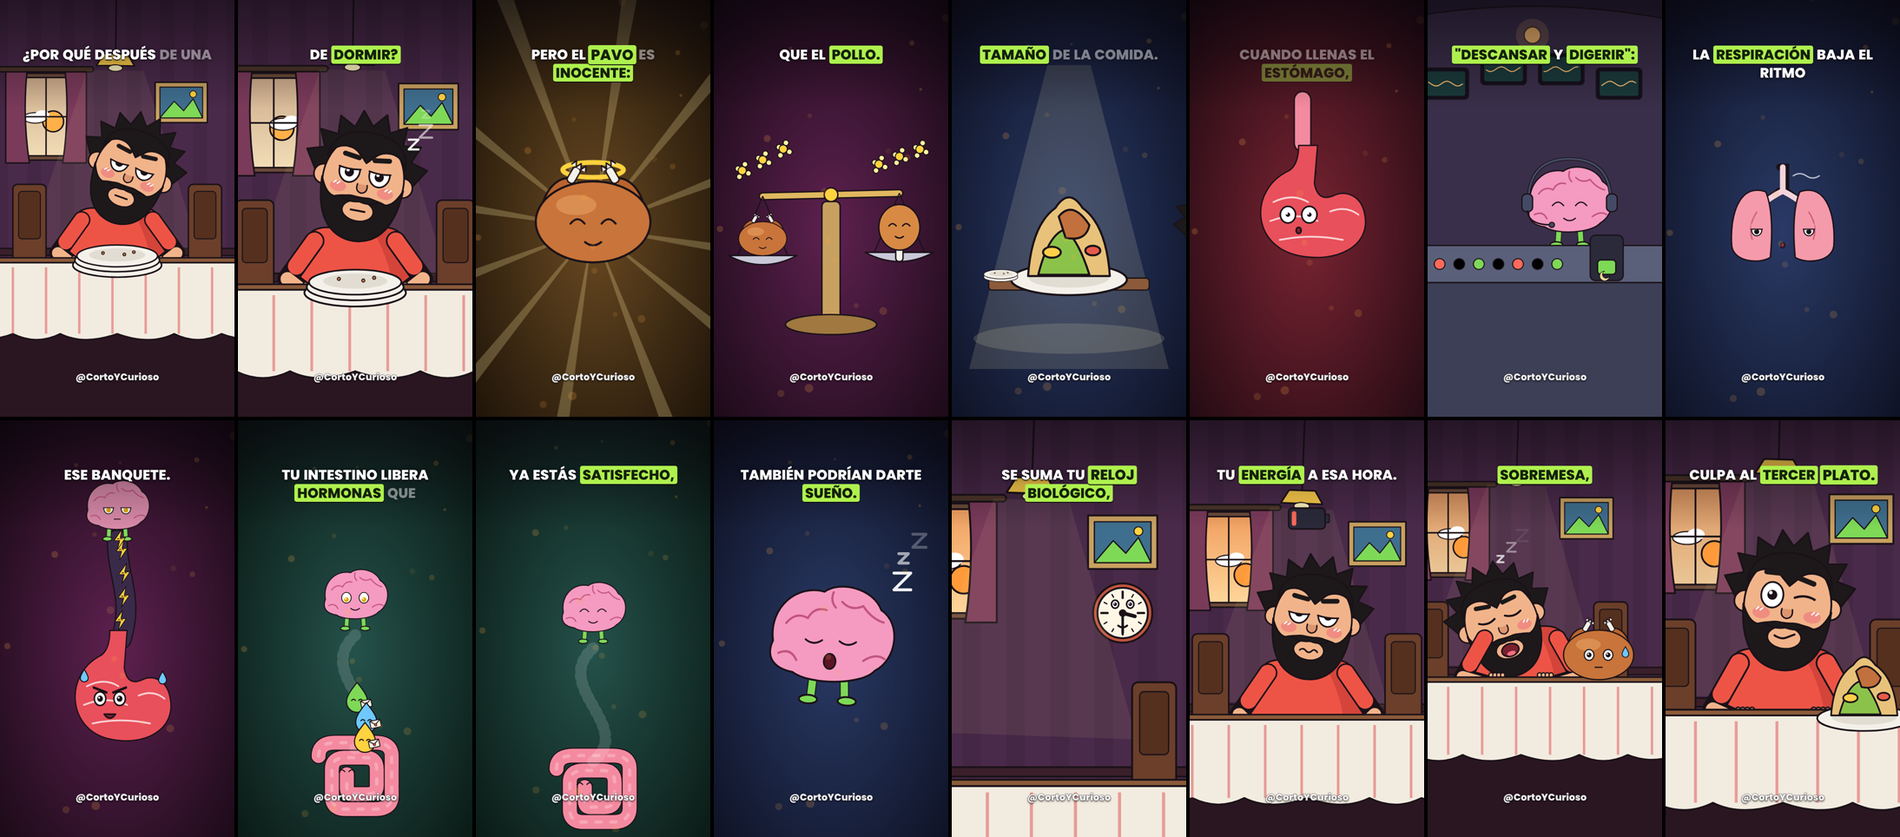
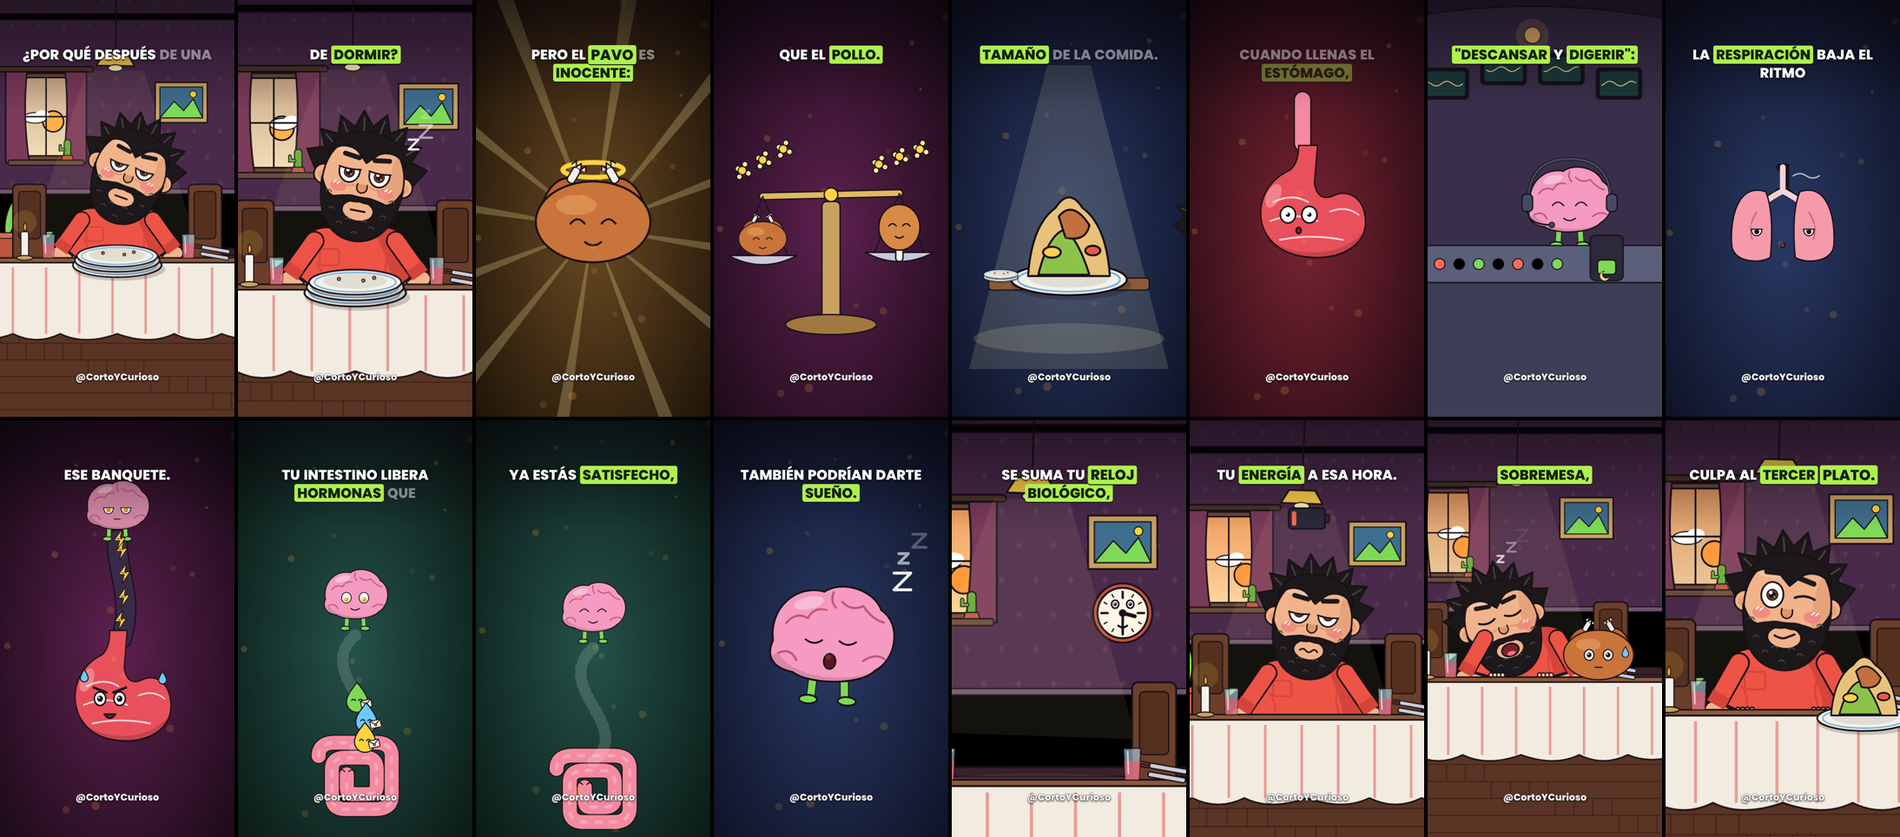
Fábrica: método de ideas originales en la skill y más detalle en el barbudo, órganos y escenarios
Claude-Session: https://claude.ai/code/session_01D2vhzsauGbaH4AxSxUQzsr

diff --git a/fabrica/video/src/lib/Escenarios.tsx b/fabrica/video/src/lib/Escenarios.tsx
@@ -45,6 +45,12 @@ export const Ventana: React.FC<{ x: number; y: number; w?: number; h?: number; h
       <path d={`M${x - 40},${y - 30} L${x + 50},${y - 30} Q${x + 30},${y + h * 0.5} ${x + 60},${y + h + 30} L${x - 40},${y + h + 30} Z`} fill={cortina} {...P} />
       <path d={`M${x + w + 40},${y - 30} L${x + w - 50},${y - 30} Q${x + w - 30},${y + h * 0.5} ${x + w - 60},${y + h + 30} L${x + w + 40},${y + h + 30} Z`} fill={cortina} {...P} />
       <rect x={x - 70} y={y - 46} width={w + 140} height={22} rx={11} fill="#4a3428" {...P} />
+      <rect x={x - 30} y={y + h + 18} width={w + 60} height={22} rx={8} fill="#6b4a3a" {...P} strokeWidth={5} />
+      <g transform={`translate(${x + w - 40},${y + h + 18})`}>
+        <path d="M-14,-10 L-14,-70 Q-14,-86 0,-86 Q14,-86 14,-70 L14,-10 Z" fill="#5fae3a" {...P} strokeWidth={4} />
+        <path d="M-14,-44 L-30,-44 L-30,-60" fill="none" stroke={INK} strokeWidth={14} strokeLinecap="round" /><path d="M-14,-44 L-30,-44 L-30,-60" fill="none" stroke="#5fae3a" strokeWidth={8} strokeLinecap="round" />
+        <path d="M-26,0 L26,0 L20,-20 L-20,-20 Z" fill="#c0553f" {...P} strokeWidth={4} />
+      </g>
     </g>
   );
 };
@@ -71,7 +77,9 @@ export const Plato: React.FC<{ x: number; y: number; s?: number; montaña?: numb
   const h = 30 + montaña * 220;
   return (
     <g transform={`translate(${x},${y}) scale(${s})`}>
+      <ellipse cx={8} cy={26} rx={176} ry={44} fill="#000" opacity={0.18} />
       <ellipse cx={0} cy={10} rx={170} ry={46} fill="#f4f1ea" {...P} />
+      <ellipse cx={0} cy={10} rx={150} ry={36} fill="none" stroke="#7ab0d8" strokeWidth={5} />
       <ellipse cx={0} cy={6} rx={118} ry={28} fill="#e2ddd2" />
       {!vacio && (
         <g>
@@ -94,9 +102,16 @@ export const Comedor: React.FC<{ mesaY?: number; tono?: number; hora?: number; r
   return (
     <g>
       <rect x={-400} y={-300} width={1880} height={mesaY + 400} fill={pared} />
-      {Array.from({ length: 14 }).map((_, i) => <rect key={i} x={-400 + i * 140} y={-300} width={60} height={mesaY + 400} fill="#000" opacity={0.07} />)}
+      <Tapiz y0={-300} y1={mesaY - 300} color={mix(pared, '#ffffff', 0.12)} />
+      <rect x={-400} y={250} width={1880} height={26} fill={mix(pared, '#000', 0.25)} {...P} strokeWidth={4} />
+      {/* zócalo con paneles */}
+      <rect x={-400} y={mesaY - 300} width={1880} height={260} fill={mix(pared, '#000', 0.22)} {...P} />
+      {Array.from({ length: 9 }).map((_, i) => <rect key={i} x={-360 + i * 220} y={mesaY - 270} width={180} height={200} rx={8} fill="none" stroke={mix(pared, '#000', 0.45)} strokeWidth={5} />)}
+      <rect x={-400} y={mesaY - 310} width={1880} height={20} fill={mix(pared, '#ffffff', 0.2)} {...P} strokeWidth={4} />
       <rect x={-400} y={mesaY - 60} width={1880} height={30} fill="#3a1f2a" {...P} />
-      <rect x={-400} y={mesaY + 100} width={1880} height={1000} fill="#2a1620" />
+      <Piso y={mesaY + 100} />
+      {/* plantita en la esquina */}
+      <Planta x={60} y={mesaY - 40} />
       <Ventana x={110} y={520} w={260} h={330} hora={hora} cortina="#7a3a5a" />
       {/* cuadro */}
       <g>
@@ -113,6 +128,7 @@ export const Comedor: React.FC<{ mesaY?: number; tono?: number; hora?: number; r
         <ellipse cx={540} cy={480} rx={30} ry={14} fill="#fff6c0" {...P} strokeWidth={4} />
         <path d="M420,490 L660,490 L900,1240 L180,1240 Z" fill="#ffe8a0" opacity={0.08} />
       </g>
+      <ellipse cx={540} cy={mesaY + 20} rx={460} ry={60} fill="#ffe8a0" opacity={0.08} />
       {/* sillas detrás */}
       {[170, 910].map((cx) => (
         <g key={cx}>
@@ -126,9 +142,67 @@ export const Comedor: React.FC<{ mesaY?: number; tono?: number; hora?: number; r
       <path d={`M-60,${mesaY} L1140,${mesaY}`} stroke={INK} strokeWidth={SW} />
       {Array.from({ length: 9 }).map((_, i) => <line key={i} x1={-40 + i * 140} y1={mesaY + 20} x2={-40 + i * 140} y2={mesaY + 300} stroke="#e05050" strokeWidth={10} opacity={0.5} />)}
       <rect x={-60} y={mesaY - 20} width={1200} height={20} fill="#8a5a3a" {...P} />
+      <Vela x={150} y={mesaY - 20} />
+      <Vaso x={250} y={mesaY - 20} />
+      <Vaso x={840} y={mesaY - 20} />
+      <Cubiertos x={960} y={mesaY - 26} />
     </g>
   );
 };
+
+/** papel tapiz de rombos */
+export const Tapiz: React.FC<{ y0: number; y1: number; color: string }> = ({ y0, y1, color }) => (
+  <g opacity={0.5}>
+    {Array.from({ length: Math.ceil((y1 - y0) / 110) }).map((_, r) => Array.from({ length: 18 }).map((_, c) => (
+      <path key={r + '-' + c} transform={`translate(${-400 + c * 110 + (r % 2) * 55},${y0 + r * 110 + 55})`} d="M0,-14 L10,0 L0,14 L-10,0 Z" fill={color} />
+    )))}
+  </g>
+);
+/** piso de duela */
+export const Piso: React.FC<{ y: number; color?: string }> = ({ y, color = '#5a3424' }) => (
+  <g>
+    <rect x={-400} y={y} width={1880} height={1200} fill={color} />
+    {Array.from({ length: 14 }).map((_, i) => <line key={i} x1={-400} x2={1480} y1={y + 30 + i * 70} y2={y + 30 + i * 70} stroke="#000" strokeOpacity={0.3} strokeWidth={4} />)}
+    {Array.from({ length: 60 }).map((_, i) => <line key={'v' + i} x1={-400 + ((i * 263) % 1880)} x2={-400 + ((i * 263) % 1880)} y1={y + 30 + (i % 14) * 70} y2={y + 100 + (i % 14) * 70} stroke="#000" strokeOpacity={0.3} strokeWidth={4} />)}
+  </g>
+);
+export const Planta: React.FC<{ x: number; y: number; s?: number }> = ({ x, y, s = 1 }) => {
+  const f = useCurrentFrame();
+  return (
+    <g transform={`translate(${x},${y}) scale(${s})`}>
+      {[-50, -20, 10, 40, 70].map((a, i) => (
+        <path key={i} transform={`rotate(${a + Math.sin(f / 30 + i) * 3})`} d="M0,-60 C30,-120 20,-200 0,-230 C-20,-200 -30,-120 0,-60 Z" fill={i % 2 ? '#5fae3a' : '#7ed957'} {...P} strokeWidth={4} />
+      ))}
+      <path d="M-60,-70 L60,-70 L44,40 L-44,40 Z" fill="#c0553f" {...P} />
+      <rect x={-68} y={-86} width={136} height={24} rx={8} fill="#d86a50" {...P} strokeWidth={4} />
+    </g>
+  );
+};
+export const Vela: React.FC<{ x: number; y: number }> = ({ x, y }) => {
+  const f = useCurrentFrame();
+  return (
+    <g transform={`translate(${x},${y})`}>
+      <circle cx={0} cy={-150} r={50} fill="#ffcf4a" opacity={0.15} />
+      <rect x={-16} y={-110} width={32} height={110} rx={6} fill="#f4f1ea" {...P} strokeWidth={4} />
+      <path d={`M0,-150 Q${12 + Math.sin(f / 2) * 3},-128 0,-112 Q${-12 + Math.sin(f / 2) * 3},-128 0,-150 Z`} fill="#ffb02e" {...P} strokeWidth={3} />
+      <ellipse cx={0} cy={0} rx={34} ry={10} fill="#c8a060" {...P} strokeWidth={4} />
+    </g>
+  );
+};
+export const Vaso: React.FC<{ x: number; y: number }> = ({ x, y }) => (
+  <g transform={`translate(${x},${y})`}>
+    <path d="M-28,-100 L28,-100 L22,0 L-22,0 Z" fill="#bfe6ff" opacity={0.55} {...P} strokeWidth={4} />
+    <path d="M-25,-60 L25,-60 L22,0 L-22,0 Z" fill="#e85a6a" opacity={0.7} />
+    <line x1={-14} y1={-90} x2={-12} y2={-20} stroke="#fff" strokeWidth={5} strokeLinecap="round" opacity={0.7} />
+  </g>
+);
+export const Cubiertos: React.FC<{ x: number; y: number }> = ({ x, y }) => (
+  <g transform={`translate(${x},${y}) rotate(-80)`}>
+    <rect x={-8} y={-70} width={16} height={120} rx={6} fill="#c8ccd8" {...P} strokeWidth={4} />
+    <rect x={20} y={-70} width={16} height={120} rx={6} fill="#c8ccd8" {...P} strokeWidth={4} />
+    <path d="M20,-70 l0,-30 m8,30 l0,-30 m8,30 l0,-30" stroke={INK} strokeWidth={4} />
+  </g>
+);
 
 /** Recámara: pared, ventana con luna/lluvia, buró con lámpara, cama, tapete y pantuflas */
 export const Recamara: React.FC<{ hora?: number; lluvia?: boolean; camaY?: number; children?: React.ReactNode; tono?: number }> = ({ hora = 2, lluvia = false, camaY = 1250, children, tono = 0 }) => {
@@ -137,12 +211,15 @@ export const Recamara: React.FC<{ hora?: number; lluvia?: boolean; camaY?: numbe
     <g>
       <rect x={-400} y={-300} width={1880} height={2600} fill={pared} />
       {Array.from({ length: 9 }).map((_, i) => <circle key={i} cx={60 + (i % 3) * 420} cy={300 + Math.floor(i / 3) * 360} r={8} fill="#fff" opacity={0.08} />)}
-      <rect x={-400} y={1500} width={1880} height={800} fill="#22243e" />
+      <Tapiz y0={-300} y1={1200} color={mix(pared, '#ffffff', 0.12)} />
+      <rect x={-400} y={1200} width={1880} height={300} fill={mix(pared, '#000', 0.22)} {...P} />
+      <Piso y={1500} color="#4a2e26" />
       <Ventana x={90} y={500} w={280} h={330} hora={hora} lluvia={lluvia} />
       <ellipse cx={540} cy={1760} rx={420} ry={90} fill="#7a3a5a" {...P} />
       {/* buró y lámpara */}
       <rect x={820} y={1180} width={220} height={300} rx={12} fill="#6b4a3a" {...P} />
       <rect x={846} y={1240} width={168} height={80} rx={8} fill="#55382c" {...P} strokeWidth={4} />
+      {['#3f6fae', '#7ed957', '#ffcf4a'].map((c, i) => <rect key={c} x={850} y={1150 - i * 22} width={60 - i * 6} height={22} rx={4} fill={c} {...P} strokeWidth={4} />)}
       <rect x={920} y={1060} width={22} height={120} fill="#4a3428" {...P} strokeWidth={4} />
       <path d="M870,1070 L990,1070 L960,980 L900,980 Z" fill="#ffcf4a" {...P} />
       {/* cama */}

diff --git a/fabrica/video/src/lib/Barbudo.tsx b/fabrica/video/src/lib/Barbudo.tsx
@@ -3,7 +3,7 @@
  * <Cabeza> está centrada en (0,0) (cara ≈ 300×345). <Cuerpo> tiene los hombros en (0,0).
  * Nunca mueve la boca como si hablara: las bocas son expresiones fijas.
  */
-import React from 'react';
+import React, { useId } from 'react';
 import { useCurrentFrame } from 'remotion';
 import { INK, SW, Gota } from './base';
 
@@ -23,8 +23,10 @@ const ojo = (x: number, mira: [number, number], parpado: number, bl: number, cer
   return (
     <g key={x}>
       <ellipse cx={x} cy={-30} rx={38} ry={ry * bl} fill="#fff" stroke={INK} strokeWidth={SW} />
-      <circle cx={x + mira[0] * 14} cy={-30 + mira[1] * 14 * bl} r={17 * Math.min(1, bl + 0.2)} fill={INK} />
+      <circle cx={x + mira[0] * 14} cy={-30 + mira[1] * 14 * bl} r={19 * Math.min(1, bl + 0.2)} fill="#6b3a20" stroke={INK} strokeWidth={3} />
+      <circle cx={x + mira[0] * 14} cy={-30 + mira[1] * 14 * bl} r={11 * Math.min(1, bl + 0.2)} fill={INK} />
       <circle cx={x + mira[0] * 14 - 6} cy={-30 + mira[1] * 14 * bl - 7} r={6} fill="#fff" />
+      <circle cx={x + mira[0] * 14 + 7} cy={-30 + mira[1] * 14 * bl + 6} r={2.5} fill="#fff" />
       {parpado > 0.02 && (
         <path d={`M${x - 42},-30 L${x - 42},${-30 - ry - 4} L${x + 42},${-30 - ry - 4} L${x + 42},-30 L${x + 40},${-30 - ry + parpado * ry * 1.4} Q${x},${-30 - ry + parpado * ry * 1.4 + 8} ${x - 40},${-30 - ry + parpado * ry * 1.4} Z`}
           fill={PIEL} />
@@ -42,6 +44,7 @@ const CEJAS: Record<Cejas, [number, number, number, number]> = {
 export const Cabeza: React.FC<CabezaProps> = ({ boca = 'sonrisa', cejas = 'normal', mira = [0, 0], parpado = 0, ojoGuino = false, parpadea = true,
   sudor = 0, rubor = 0, dormido = false, mejillasLlenas = 0, color = PIEL }) => {
   const f = useCurrentFrame();
+  const uid = 'c' + useId().replace(/[^a-zA-Z0-9]/g, '');
   const ph = (f + 23) % 105;
   const bl = parpadea && !dormido && ph < 6 ? Math.abs(ph - 3) / 3 : 1;
   const [ai, ad, hi, hd] = CEJAS[cejas];
@@ -57,15 +60,27 @@ export const Cabeza: React.FC<CabezaProps> = ({ boca = 'sonrisa', cejas = 'norma
   return (
     <g>
       <polygon points={`-150,40 ${picos.join(' ')} 150,40`} fill={PELO} stroke={INK} strokeWidth={SW} strokeLinejoin="round" />
+      {picos.filter((_, k) => k % 2 === 0 && k > 0 && k < 14).map((pt, k) => {
+        const [px, py] = pt.split(',').map(Number);
+        return <path key={k} d={`M${px * 0.62},${py * 0.62 - 6} Q${px * 0.78},${py * 0.8} ${px * 0.88},${py * 0.9}`} fill="none" stroke="#4a4246" strokeWidth={6} strokeLinecap="round" />;
+      })}
       {/* orejas */}
       {[-1, 1].map((s) => (
         <g key={s}>
           <circle cx={s * 148} cy={0} r={36} fill={color} stroke={INK} strokeWidth={SW} />
+          <circle cx={s * 152} cy={4} r={18} fill={PIEL_S} opacity={0.6} />
           <path d={`M${s * 140},-14 Q${s * 160},0 ${s * 140},16`} fill="none" stroke={INK} strokeWidth={4} strokeLinecap="round" />
         </g>
       ))}
       {/* cara */}
-      <ellipse cx={0} cy={0} rx={150 + mejillasLlenas * 22} ry={172} fill={color} stroke={INK} strokeWidth={SW} />
+      <defs><clipPath id={uid}><ellipse cx={0} cy={0} rx={150 + mejillasLlenas * 22} ry={172} /></clipPath></defs>
+      <ellipse cx={0} cy={0} rx={150 + mejillasLlenas * 22} ry={172} fill={color} />
+      <g clipPath={`url(#${uid})`}>
+        <ellipse cx={205} cy={20} rx={120} ry={220} fill={PIEL_S} opacity={0.55} />
+        <ellipse cx={-60} cy={-112} rx={60} ry={26} fill="#fff" opacity={0.22} />
+        <ellipse cx={0} cy={180} rx={170} ry={60} fill={PIEL_S} opacity={0.5} />
+      </g>
+      <ellipse cx={0} cy={0} rx={150 + mejillasLlenas * 22} ry={172} fill="none" stroke={INK} strokeWidth={SW} />
       {/* entradas del pelo en la frente */}
       <path d="M-146,-70 Q-140,-176 0,-180 Q140,-176 146,-70 Q126,-112 86,-116 Q50,-118 30,-96 L0,-66 L-30,-96 Q-50,-118 -86,-116 Q-126,-112 -146,-70 Z" fill={PELO} stroke={INK} strokeWidth={SW} strokeLinejoin="round" />
       {/* cachetes */}
@@ -88,6 +103,10 @@ export const Cabeza: React.FC<CabezaProps> = ({ boca = 'sonrisa', cejas = 'norma
       <ellipse cx={0} cy={112} rx={58} ry={38} fill={color} stroke={INK} strokeWidth={5} />
       {/* bigote */}
       <path d="M-70,70 Q-36,52 0,66 Q36,52 70,70 Q40,88 0,78 Q-40,88 -70,70 Z" fill={PELO} stroke={INK} strokeWidth={5} strokeLinejoin="round" />
+      {[[-118, 60], [-96, 120], [-60, 168], [0, 196], [60, 168], [96, 120], [118, 60], [-30, 150], [30, 150]].map(([bx, by], i) => (
+        <path key={i} d={`M${bx - 10},${by} q10,-12 20,0`} fill="none" stroke="#4a4246" strokeWidth={4} strokeLinecap="round" />
+      ))}
+      {(parpado > 0.3 || cejas === 'cansado') && [-56, 56].map((x) => <path key={x} d={`M${x - 26},20 Q${x},32 ${x + 26},20`} fill="none" stroke={PIEL_S} strokeWidth={6} strokeLinecap="round" />)}
       {/* boca */}
       <g transform="translate(0,112)">
         {boca === 'sonrisa' && <path d="M-30,-6 Q0,20 30,-6" fill="none" stroke={INK} strokeWidth={7} strokeLinecap="round" />}
@@ -121,10 +140,12 @@ export const Brazo: React.FC<{ s: [number, number]; e: [number, number]; m: [num
     <path d={`M${s[0]},${s[1]} L${e[0]},${e[1]} L${m[0]},${m[1]}`} stroke={INK} strokeWidth={62 + SW * 2} />
     <path d={`M${e[0]},${e[1]} L${m[0]},${m[1]}`} stroke={PIEL} strokeWidth={50} />
     <path d={`M${s[0]},${s[1]} L${(s[0] + e[0] * 2) / 3},${(s[1] + e[1] * 2) / 3}`} stroke={ROJO} strokeWidth={62} />
+    <path d={`M${(s[0] + e[0] * 2) / 3},${(s[1] + e[1] * 2) / 3} L${(s[0] * 0.3 + e[0] * 2.7) / 3},${(s[1] * 0.3 + e[1] * 2.7) / 3}`} stroke={ROJO_S} strokeWidth={66} strokeLinecap="butt" />
     <g transform={`translate(${m[0]},${m[1]}) rotate(${manoRot})`}>
       {mano === 'señala' && <rect x={-9} y={-78} width={20} height={60} rx={10} fill={PIEL} stroke={INK} strokeWidth={SW} />}
       <circle r={36} fill={PIEL} stroke={INK} strokeWidth={SW} />
-      {mano === 'abierta' && [-24, -8, 8, 24].map((x) => <rect key={x} x={x - 8} y={-58} width={17} height={34} rx={8.5} fill={PIEL} stroke={INK} strokeWidth={5} />)}
+      {mano === 'abierta' && [-24, -8, 8, 24].map((x) => <g key={x}><rect x={x - 8} y={-58} width={17} height={34} rx={8.5} fill={PIEL} stroke={INK} strokeWidth={5} /><rect x={x - 4} y={-54} width={9} height={8} rx={3} fill="#fbd5c0" /></g>)}
+      <ellipse cx={10} cy={10} rx={18} ry={14} fill={PIEL_S} opacity={0.5} />
       {mano === 'puño' && <path d="M-20,-8 L20,-8 M-20,6 L20,6" stroke={INK} strokeWidth={4} />}
     </g>
   </g>
@@ -138,7 +159,11 @@ export const Torso: React.FC<{ panza?: number; alto?: number }> = ({ panza = 0, 
       <rect x={-34} y={-40} width={68} height={60} fill={PIEL} stroke={INK} strokeWidth={SW} />
       <path d={`M-175,40 Q-172,-6 -110,-10 L110,-10 Q172,-6 175,40 Q${190 + p},${alto * 0.6} 190,${alto} L-190,${alto} Q${-190 - p},${alto * 0.6} -175,40 Z`} fill={ROJO} stroke={INK} strokeWidth={SW} strokeLinejoin="round" />
       <path d={`M60,-8 L110,-10 Q172,-6 175,40 Q${190 + p},${alto * 0.6} 190,${alto} L120,${alto} Q${140 + p * 0.7},${alto * 0.5} 60,-8 Z`} fill={ROJO_S} />
-      <path d="M-46,-10 Q0,30 46,-10" fill="none" stroke={INK} strokeWidth={SW} />
+      <path d="M-34,-12 Q0,14 34,-12 L34,-30 L-34,-30 Z" fill={PIEL_S} opacity={0.7} />
+      <path d="M-50,-10 Q0,36 50,-10" fill="none" stroke={INK} strokeWidth={16} strokeLinecap="round" />
+      <path d="M-50,-10 Q0,36 50,-10" fill="none" stroke={ROJO_S} strokeWidth={8} strokeLinecap="round" />
+      <path d="M-140,120 Q-110,170 -130,230 M120,90 Q100,150 130,210 M-60,300 Q-20,320 20,300" fill="none" stroke={ROJO_S} strokeWidth={6} strokeLinecap="round" />
+      <rect x={-130} y={70} width={70} height={60} rx={8} fill="none" stroke={ROJO_S} strokeWidth={6} />
       {panza > 0.05 && <path d={`M${-120 - p * 0.6},${alto * 0.62} Q0,${alto * 0.7 + p * 0.3} ${120 + p * 0.6},${alto * 0.62}`} fill="none" stroke={ROJO_S} strokeWidth={8} strokeLinecap="round" />}
       <path d={`M-175,40 Q-172,-6 -110,-10 L110,-10 Q172,-6 175,40 Q${190 + p},${alto * 0.6} 190,${alto} L-190,${alto} Q${-190 - p},${alto * 0.6} -175,40 Z`} fill="none" stroke={INK} strokeWidth={SW} strokeLinejoin="round" />
     </g>

diff --git a/fabrica/video/src/lib/Cuerpo.tsx b/fabrica/video/src/lib/Cuerpo.tsx
@@ -69,6 +69,8 @@ export const Cerebro: React.FC<{ ojos?: Ojos; boca?: 'sonrisa' | 'o' | 'bostezo'
         <path d="M110,70 Q150,40 180,60" />
         <path d="M0,-150 Q-10,-120 10,-100" />
       </g>
+      <path d="M-170,60 C-120,140 60,150 150,100 C110,150 -60,160 -120,120 C-190,110 -210,70 -170,60 Z" fill="#000" opacity={0.12} />
+      <ellipse cx={-80} cy={-110} rx={50} ry={20} fill="#fff" opacity={0.35} transform="rotate(-15,-80,-110)" />
       <Ojitos y={10} sep={56} r={34} tipo={ojos} mira={mira} iris="#e0a800" piel={color} />
       <Boquita y={78} tipo={boca} w={28} />
       {audifonos && (
@@ -95,6 +97,8 @@ export const Estomago: React.FC<{ lleno?: number; amasa?: number; ojos?: Ojos; b
       <g fill="none" stroke="#fff" strokeOpacity={0.75} strokeWidth={8 / k} strokeLinecap="round">
         <path d="M-120,-20 Q-60,-50 -10,-20" /><path d="M-130,40 Q-50,10 20,40" /><path d="M-100,100 Q0,80 100,100" /><path d="M60,10 Q110,-10 150,20" />
       </g>
+      <ellipse cx={-120} cy={-40} rx={22} ry={40} fill="#fff" opacity={0.3} transform="rotate(25,-120,-40)" />
+      <path d="M-150,80 C-100,150 80,170 160,80 C150,150 40,180 -40,150 C-100,140 -140,110 -150,80 Z" fill="#000" opacity={0.15} />
       <Ojitos x={-40} y={20} sep={34} r={22} tipo={ojos} piel="#e8505b" />
       <Boquita x={-40} y={70} tipo={boca} w={20} />
     </g>
@@ -110,6 +114,8 @@ export const Corazon: React.FC<{ bpm?: number; ojos?: Ojos; boca?: 'sonrisa' | '
     <g transform={`scale(${1 + b * 0.12})`}>
       <path d="M0,170 C-60,110 -200,40 -200,-60 C-200,-140 -120,-180 -60,-160 C-30,-150 -10,-130 0,-110 C10,-130 30,-150 60,-160 C120,-180 200,-140 200,-60 C200,40 60,110 0,170 Z" fill="#e8505b" stroke={INK} strokeWidth={SW} strokeLinejoin="round" />
       <ellipse cx={-110} cy={-90} rx={40} ry={22} fill="#fff" opacity={0.35} transform="rotate(-30,-110,-90)" />
+      <path d="M0,170 C-60,110 -200,40 -200,-60 C-160,40 -40,100 0,130 C40,100 160,40 200,-60 C200,40 60,110 0,170 Z" fill="#000" opacity={0.15} />
+      <path d="M40,-150 Q80,-110 60,-60" stroke="#b83040" strokeWidth={8} fill="none" strokeLinecap="round" />
       <Ojitos y={-20} sep={52} r={28} tipo={ojos} piel="#e8505b" />
       <Boquita y={50} tipo={boca} w={26} />
     </g>

diff --git a/.claude/skills/videos-diarios/SKILL.md b/.claude/skills/videos-diarios/SKILL.md
@@ -20,13 +20,29 @@ intestino, mensajeros, rayos, ojitos) y `Escenarios.tsx` (comedor, recámara, sa
   los 3, haz los que alcancen y dilo en el resumen final.
 - Lee `fabrica/registro.md` para **no repetir temas**.
 
-## 1 · Elegir los temas (curiosidades del cuerpo humano)
-- Busca con WebSearch (modo standard, varias búsquedas en paralelo): noticias de salud y ciencia de esta semana,
-  lo que pasa en la fecha (temporada, clima, fiestas, eventos deportivos), y preguntas virales tipo "¿por qué…?".
-- Elige 3 temas con **gancho fuerte** (pregunta que todos se han hecho, mito que se desmiente, dato sorprendente)
-  y que se puedan **contar con personajes y situaciones**, no con gráficas. Prioriza: actualidad > temporada > clásico viral.
-- Verifica cada dato con al menos una fuente confiable (OMS, NIH, Mayo Clinic, MedlinePlus, revistas científicas,
-  universidades). Si algo es incierto, dilo con cautela ("podría", "se cree"). Nada de consejos médicos peligrosos.
+## 1 · Elegir los temas: cosas NUEVAS, no lo típico
+El usuario no quiere las curiosidades de siempre. Busca en este orden (WebSearch modo standard, varias búsquedas
+en paralelo; usa `allowed_domains` para cada grupo de fuentes):
+1. **Estudios de esta semana sobre el cuerpo humano**: eurekalert.org, sciencedaily.com, medicalxpress.com,
+   newscientist.com, sciencenews.org, theconversation.com, agenciasinc.es, nature.com/news.
+   Búsquedas tipo "researchers discover human body <mes año>", "study finds <órgano/sentido> <mes año>",
+   "descubren cuerpo humano estudio <mes año>". Lo ideal: algo que se supo hace días y casi nadie ha contado.
+2. **Preguntas reales de la gente**: reddit.com (r/askscience, r/explainlikeimfive, r/NoStupidQuestions) con
+   "why does my body…", y "la gente también pregunta" en español.
+3. **La fecha**: estación, clima, fiestas, eventos deportivos o noticias del día que tengan un ángulo corporal.
+
+Proceso:
+- Escribe **10 candidatas** en `fabrica/ideas/AAAA-MM-DD.md` con: pregunta gancho, de dónde salió (URL) y
+  puntuación 1-5 en **novedad**, **gancho**, **se puede animar con personajes** y **solidez de la evidencia**.
+- **Lista negra** (solo se permite si hay un estudio nuevo con un ángulo sorprendente): hipo, bostezo contagioso,
+  piel de gallina, crujir los nudillos, "usamos el 10 % del cerebro", uñas o pelo que crecen tras morir,
+  estornudar con los ojos abiertos, no poder hacerse cosquillas, dedos arrugados en el agua, "el corazón se
+  detiene al estornudar", mariposas en el estómago, el ombligo, bostezos en general, y cualquier tema de
+  `fabrica/registro.md`.
+- Elige las 3 mejores con novedad ≥ 4 y suma ≥ 15. Que no se parezcan entre sí (distintos órganos o sistemas).
+- Verifica cada dato con al menos una fuente confiable (el estudio original o su nota de prensa, OMS, NIH,
+  Mayo Clinic, Cleveland Clinic, MedlinePlus, universidades). Si es un estudio pequeño o preliminar, dilo en el
+  guion con cautela ("un estudio reciente sugiere…"). Nada de consejos médicos peligrosos.
 
 ## 2 · Guion (por video)
 - Carpeta de datos: `fabrica/videos/AAAA-MM-DD-tema-corto/` (slug en minúsculas con guiones).
@@ -35,11 +51,16 @@ intestino, mensajeros, rayos, ojitos) y `Escenarios.tsx` (comedor, recámara, sa
 - `fuentes.md`: las URLs que respaldan los datos. **Solo URLs que aparecieron en tus resultados de búsqueda o que abriste**; nunca escritas de memoria.
 
 ## 3 · Voz (ElevenLabs)
-- `creative_generate_speech` con `voice_id: c6SfcYrb2t09NHXiT80T` (Jarnathan), `model_id: eleven_v4`,
+Hay dos vías; usa la que esté disponible en la sesión:
+- **A) Conector de ElevenLabs** (herramientas `mcp__ElevenLabs__*`; cárgalas con ToolSearch "elevenlabs speech"):
+  `creative_generate_speech` con `voice_id: c6SfcYrb2t09NHXiT80T` (Jarnathan), `model_id: eleven_v4`,
   `generations_count: 1`, y como `prompt` el texto EXACTO de `guion.txt`.
 - Espera con `creative_get_flow_run_status` (respeta `poll_after_seconds`). **Nunca** repitas la llamada de
   generación para reintentar: cobra otra vez.
-- Descarga el `content_url` con `curl -sSf -o narracion.mp3 "<url>"` en la carpeta del video.
+  Descarga el `content_url` con `curl -sSf -o narracion.mp3 "<url>"` en la carpeta del video.
+- **B) Clave de API en el entorno** (secreto de red para api.elevenlabs.io): `fabrica/scripts/voz.sh fabrica/videos/<slug>`.
+- Si ninguna funciona, NO inventes audio ni uses otra voz: termina el guion y las ideas, y explica en el
+  resumen que falta conectar ElevenLabs (conector en la tarea programada o clave en el entorno).
 
 ## 4 · Escenas (lo más importante)
 - `python3 fabrica/scripts/alinear.py fabrica/videos/<slug>` imprime cada frase con sus tiempos.
